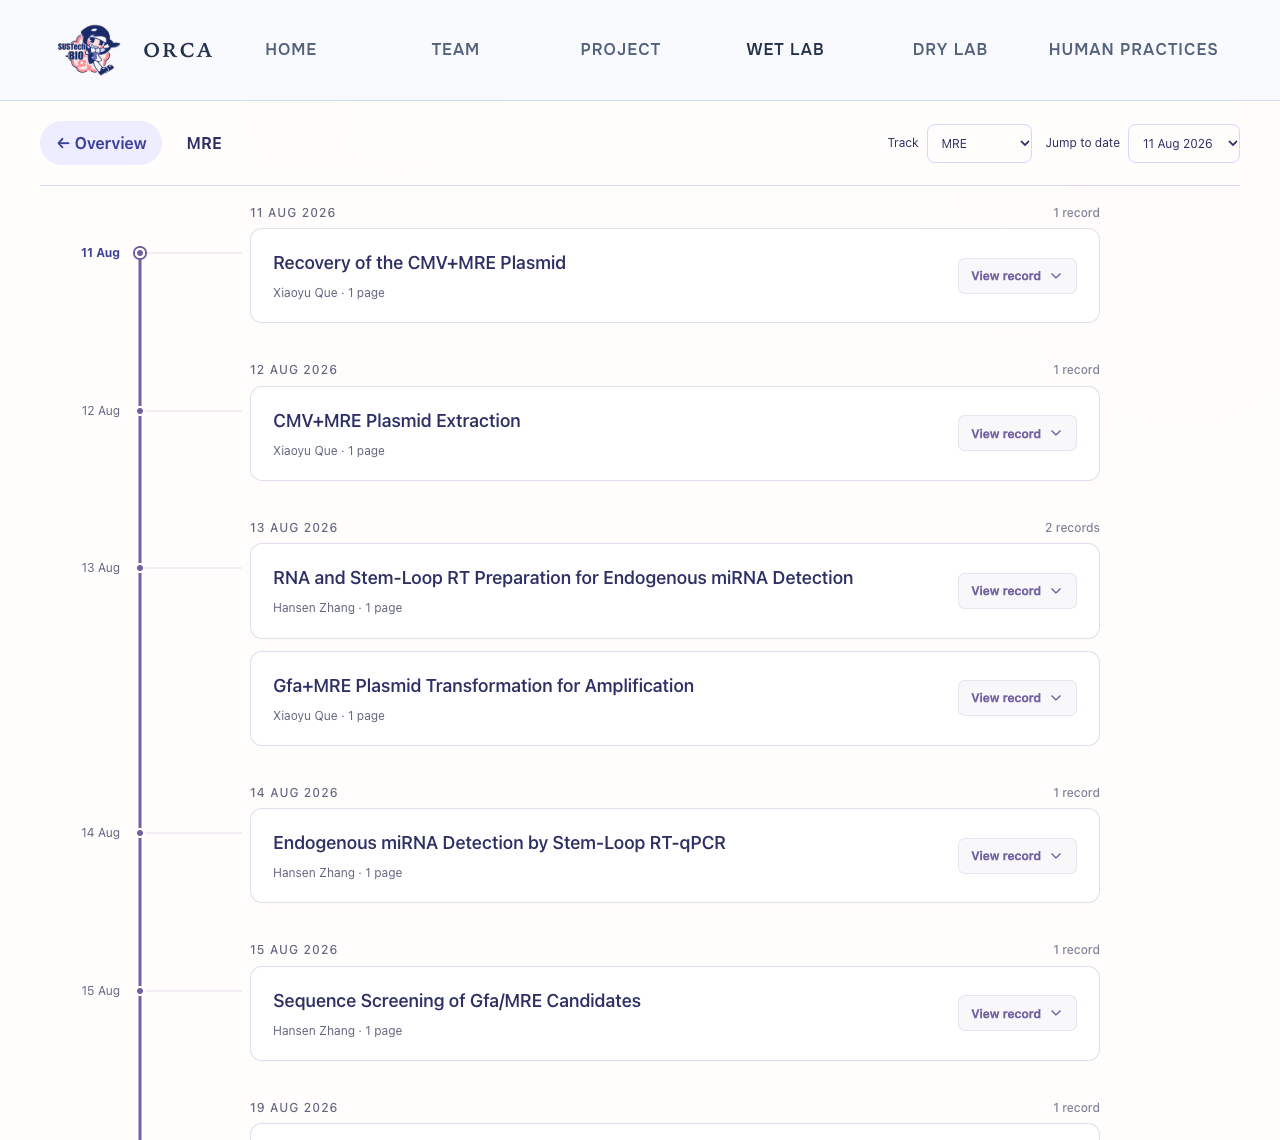
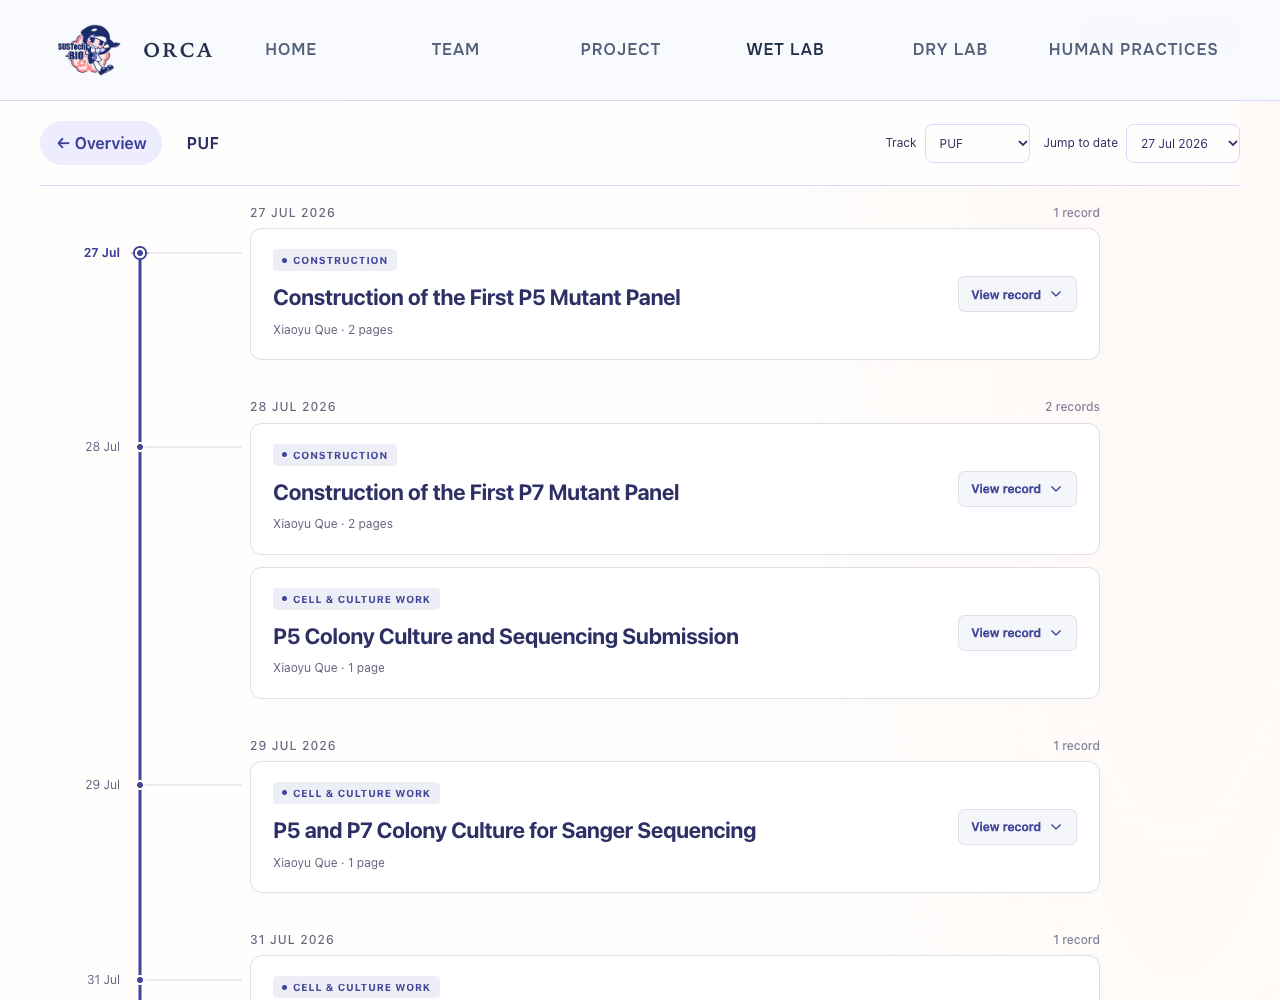
Clarify Notebook activities and refine track symbols

diff --git a/static/notebook/notebook.css b/static/notebook/notebook.css
@@ -107,7 +107,12 @@ body:has(.notebook-page) .reading-orbit{display:none!important}
 .nb-card::before{display:none}
 .nb-card-toggle{padding:20px 22px;border-radius:11px;gap:22px;transition:color .2s,background .2s}
 .nb-card-toggle:hover{background:color-mix(in srgb,var(--track) 3%,white);color:var(--track)}
-.nb-card-title{font-size:18px;font-weight:550;line-height:1.5}
+.nb-card-heading{min-width:0;flex:1}
+.nb-card-activities{display:flex;flex-wrap:wrap;gap:6px;margin-bottom:12px}
+.nb-activity{display:inline-flex;align-items:center;padding:5px 9px;border-radius:4px;background:color-mix(in srgb,var(--track) 9%,white);color:var(--track);font-size:10px;line-height:1.2;font-weight:750;letter-spacing:.08em;text-transform:uppercase}
+.nb-activity:first-child::before{content:'';width:5px;height:5px;border-radius:50%;background:currentColor;margin-right:6px}
+.nb-card-title{font-size:22px;font-weight:700;line-height:1.35;letter-spacing:-.015em}
+.nb-end{padding:20px 0 0;border-top:0}
 .nb-card-meta{font-size:12px;margin-top:7px}
 .nb-chevron{display:inline-flex;align-items:center;justify-content:center;gap:7px;flex:0 0 auto;width:auto;height:auto;padding:9px 12px;font-size:12px;font-weight:550;line-height:1.3;white-space:nowrap;border:1px solid color-mix(in srgb,var(--track) 17%,white);border-radius:7px;background:color-mix(in srgb,var(--track) 5%,white)}
 .nb-chevron svg{width:16px;height:16px;transition:transform .2s}
@@ -127,7 +132,8 @@ body:has(.notebook-page) .reading-orbit{display:none!important}
   .nb-records,.nb-end{margin-left:32px}
   .nb-day{padding-bottom:22px}.nb-day-label{font-size:10px}
   .nb-card-toggle{padding:16px;gap:13px;flex-direction:column;align-items:flex-start}
-  .nb-card-title{font-size:15px}.nb-card-meta{font-size:10px}
+  .nb-card-title{font-size:18px}.nb-card-meta{font-size:11px}
+  .nb-card-activities{margin-bottom:10px}.nb-activity{font-size:9px}
   .nb-chevron{font-size:11px;padding:7px 10px}
   .nb-card-body{padding:0 12px 18px}
   .nb-source-actions{font-size:11px;gap:8px}

diff --git a/wiki/pages/notebook.html b/wiki/pages/notebook.html
@@ -4,7 +4,6 @@
 {% block main %}
 <main id="main-content" class="notebook-page">
   <header class="nb-intro">
-    <p class="nb-eyebrow">WET LAB / THE EXPERIMENTAL RECORD</p>
     <h1>{{ content.title }}<span>.</span></h1>
   </header>
   <section class="nb-app" data-notebook data-index="{{ url_for('static', filename='notebook/index.json') }}" aria-label="Interactive research notebook" aria-busy="true">
@@ -26,8 +25,7 @@
     <div class="nb-end" data-end hidden></div>
     <p class="nb-status" data-status role="status" aria-live="polite"></p>
   </section>
-  <p class="nb-source-index">The original record, always one click away. <a href="{{ url_for('static', filename='notebook/catalog.html') }}">Browse all source PDFs ↗</a></p>
-  <noscript><p>The interactive timeline needs JavaScript. The source index above provides every date, experiment title and original PDF without JavaScript.</p></noscript>
+  <noscript><p>The interactive timeline needs JavaScript. <a href="{{ url_for('static', filename='notebook/catalog.html') }}">Browse the source index</a> for every date, experiment title and original PDF.</p></noscript>
 </main>
 {% endblock %}
 {% block page_scripts %}<script type="module" src="{{ url_for('static', filename='notebook/notebook.mjs') }}"></script>{% endblock %}

diff --git a/docs/notebook/README.md b/docs/notebook/README.md
@@ -154,7 +154,7 @@ preview and static build; they are not a claim of an iGEM media upload.
 
 ## Visual hierarchy revision — 2026-10-17
 
-The title leads directly into a nine-card track selector, with one original SVG
+The title leads directly into a nine-card track selector, with one SVG
 navigation icon per track on a common 48px grid. Each card shows the indexed
 record count and actual date range. The redundant introductory copy is omitted.
 The shared calendar uses responsive lane positions across the available width,
@@ -163,3 +163,20 @@ record totals calculated from the index. Counts beside a date node indicate
 multiple separate records on that date. No dates, milestones or source files
 were added or altered. On narrow screens, the track cards use two columns and
 the calendar remains horizontally scrollable at a readable minimum width.
+
+
+## Activity cards and icon refinement
+
+Record cards retain their exact source titles and show one compact activity cue
+matched to the title, with a stronger 22px heading (18px on mobile). These cues
+identify work types, not successful outcomes; failed attempts and repeats remain
+explicit in the unchanged title. The complete frame and 500px original-page
+reader are retained. The title eyebrows, end-of-track summary copy and visible
+source-index footer have been removed; the no-JavaScript source catalog fallback
+and each record's PDF link remain accessible.
+
+APOBEC uses a trident, Gfa a promoter arrow, and AAV a projected regular
+icosahedron. Reporter adapts the team's current SAP / SONAR symbol from
+`sonar_app/static/brand/sonar-symbol.svg`: broken concentric arcs and a central
+point, redrawn on the shared 48px grid in the track color. No external asset
+requests are made.

diff --git a/docs/notebook/VALIDATION.md b/docs/notebook/VALIDATION.md
@@ -63,3 +63,17 @@ The enclosing-frame revision also passed the Chrome suite, including desktop
 and 834/390/320px layouts, opening/closing multipage records, measured node
 alignment and PDF fallback. Review screenshots above show the final framed
 reader with the 500px page limit retained.
+
+
+## Activity-card refinement
+
+The title eyebrows, end summary copy and source-index footer were removed.
+The four revised symbols and stronger activity headings were visually checked.
+The three Notebook Python checks, full existing Chrome interaction suite
+(1440/834/390/320px), and frozen build audit passed. All 178 titles receive an
+activity cue; exact source titles, dates, source index, PDFs and previews remain
+unchanged. The expanded QX01 page remains 498px wide.
+
+- [Updated navigation icons](qa/track-cards.png)
+- [Activity cards](qa/reader-list.png)
+- [Expanded activity card](qa/reader-original.png)
